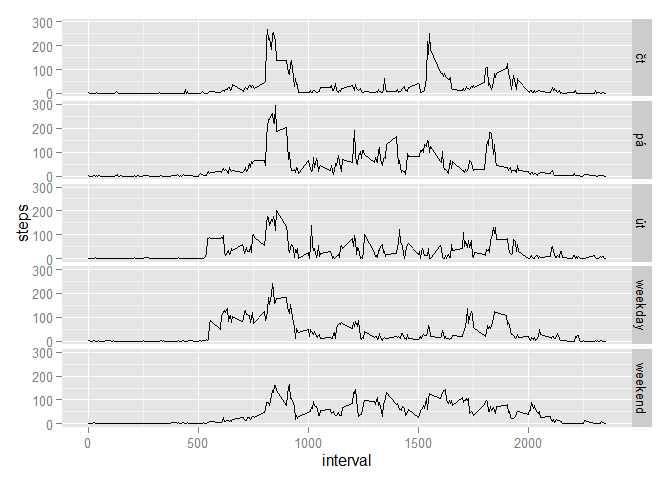
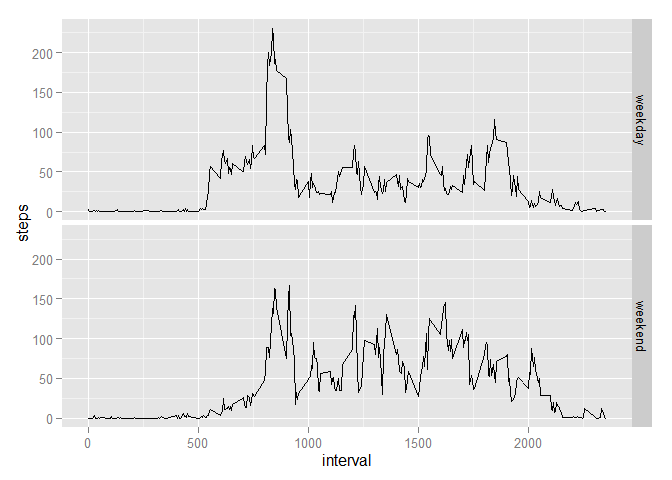
enconding corrected

Changed region(s): [[0.0312, 0.0625, 0.9688, 0.9062], [0.0312, 0.0312, 0.0938, 0.0625], [0.125, 0.8438, 0.1562, 0.875]]

diff --git a/PA1_template.html b/PA1_template.html
@@ -157,13 +157,13 @@ noNA_mean</code></pre>
 <h2>Are there differences in activity patterns between weekdays and weekends?</h2>
 <p>New factor variable created</p>
 <pre class="r"><code>noNA_data &lt;- mutate(noNA_data, wd_we=weekdays(noNA_data$date, abbreviate = TRUE))
-noNA_data$wd_we &lt;- gsub(&quot;(po)|(Ăşt)|(st)|(ÄŤt)|(pĂˇ)&quot;, &quot;weekday&quot;, noNA_data$wd_we)
+noNA_data$wd_we &lt;- gsub(&quot;(po)|(út)|(st)|(čt)|(pá)&quot;, &quot;weekday&quot;, noNA_data$wd_we)
 noNA_data$wd_we &lt;- gsub(&quot;(so)|(ne)&quot;, &quot;weekend&quot;, noNA_data$wd_we)
 noNA_data$wd_we &lt;- as.factor(noNA_data$wd_we)</code></pre>
 <p>Panel plot made</p>
 <pre class="r"><code>steps_per_wd_we &lt;- group_by(noNA_data, wd_we, interval) %&gt;% summarize(steps = mean(steps)) 
 qplot(interval, steps, data = steps_per_wd_we, geom = &quot;line&quot;, facets = wd_we~.)</code></pre>
[2 lines of base64/hex data omitted]
 </div>
 
 

diff --git a/PA1_template.md b/PA1_template.md
@@ -176,7 +176,7 @@ New factor variable created
 
 ```r
 noNA_data <- mutate(noNA_data, wd_we=weekdays(noNA_data$date, abbreviate = TRUE))
-noNA_data$wd_we <- gsub("(po)|(Ăşt)|(st)|(ÄŤt)|(pĂˇ)", "weekday", noNA_data$wd_we)
+noNA_data$wd_we <- gsub("(po)|(út)|(st)|(čt)|(pá)", "weekday", noNA_data$wd_we)
 noNA_data$wd_we <- gsub("(so)|(ne)", "weekend", noNA_data$wd_we)
 noNA_data$wd_we <- as.factor(noNA_data$wd_we)
 ```
